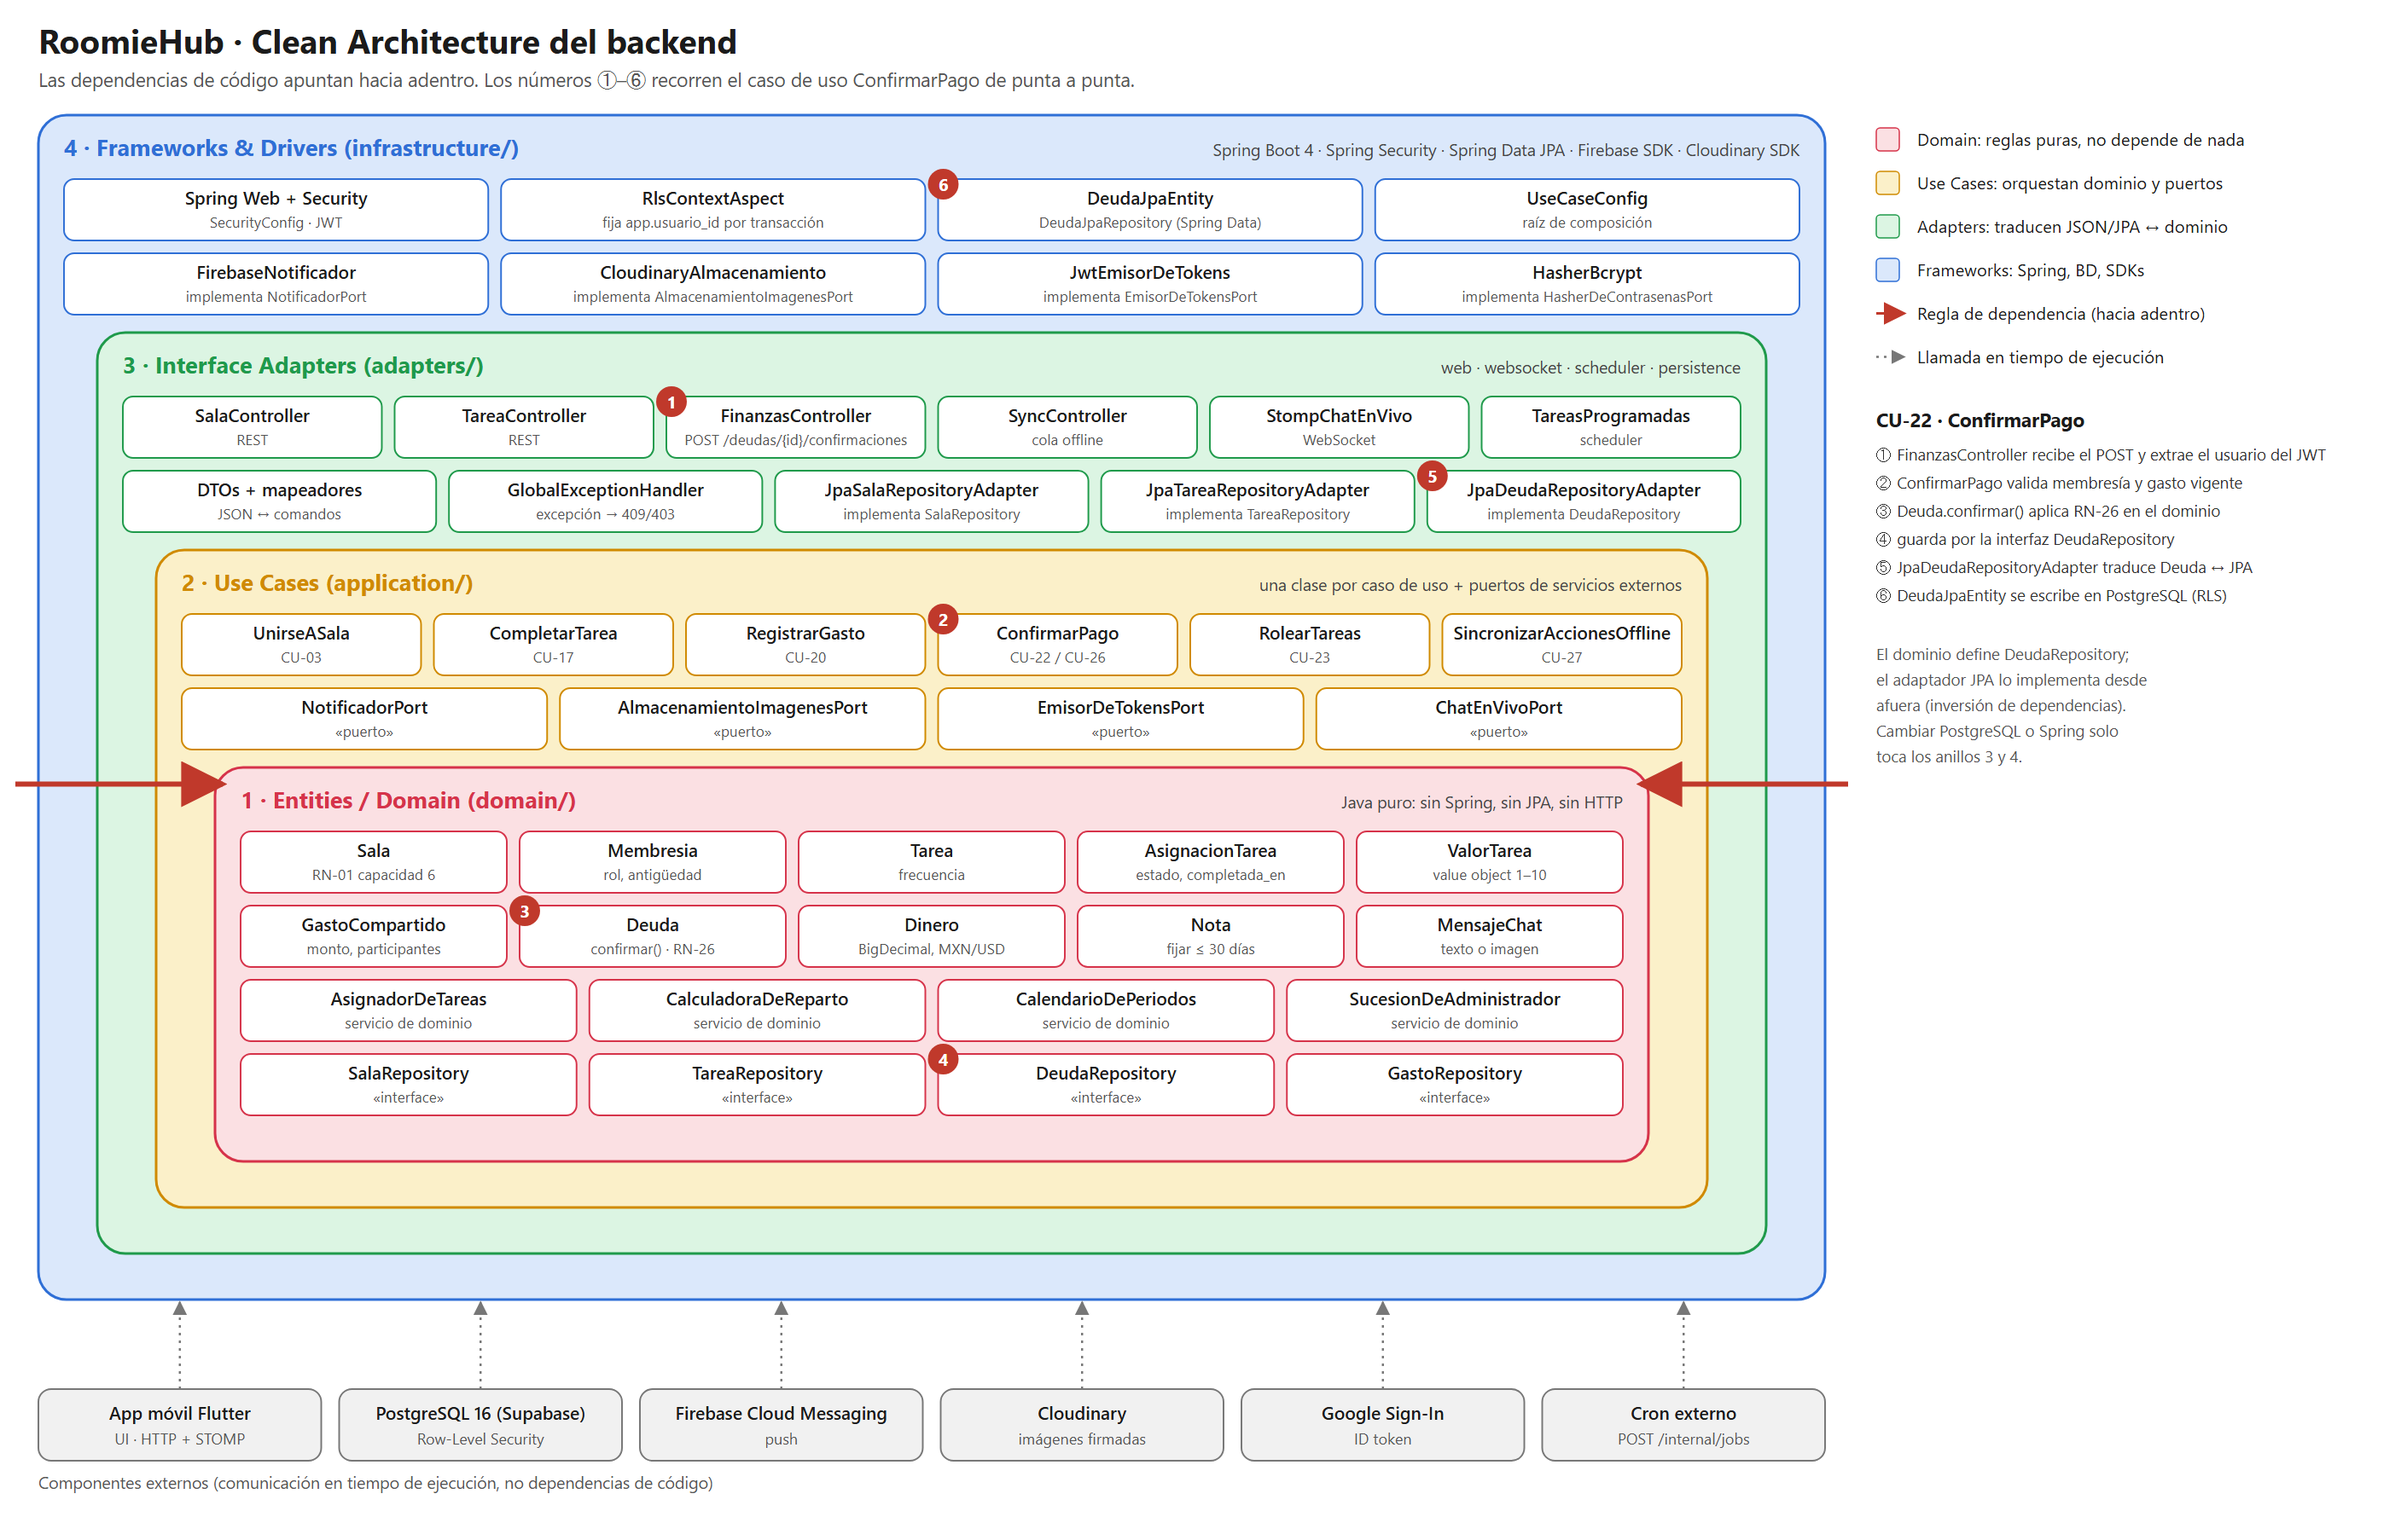
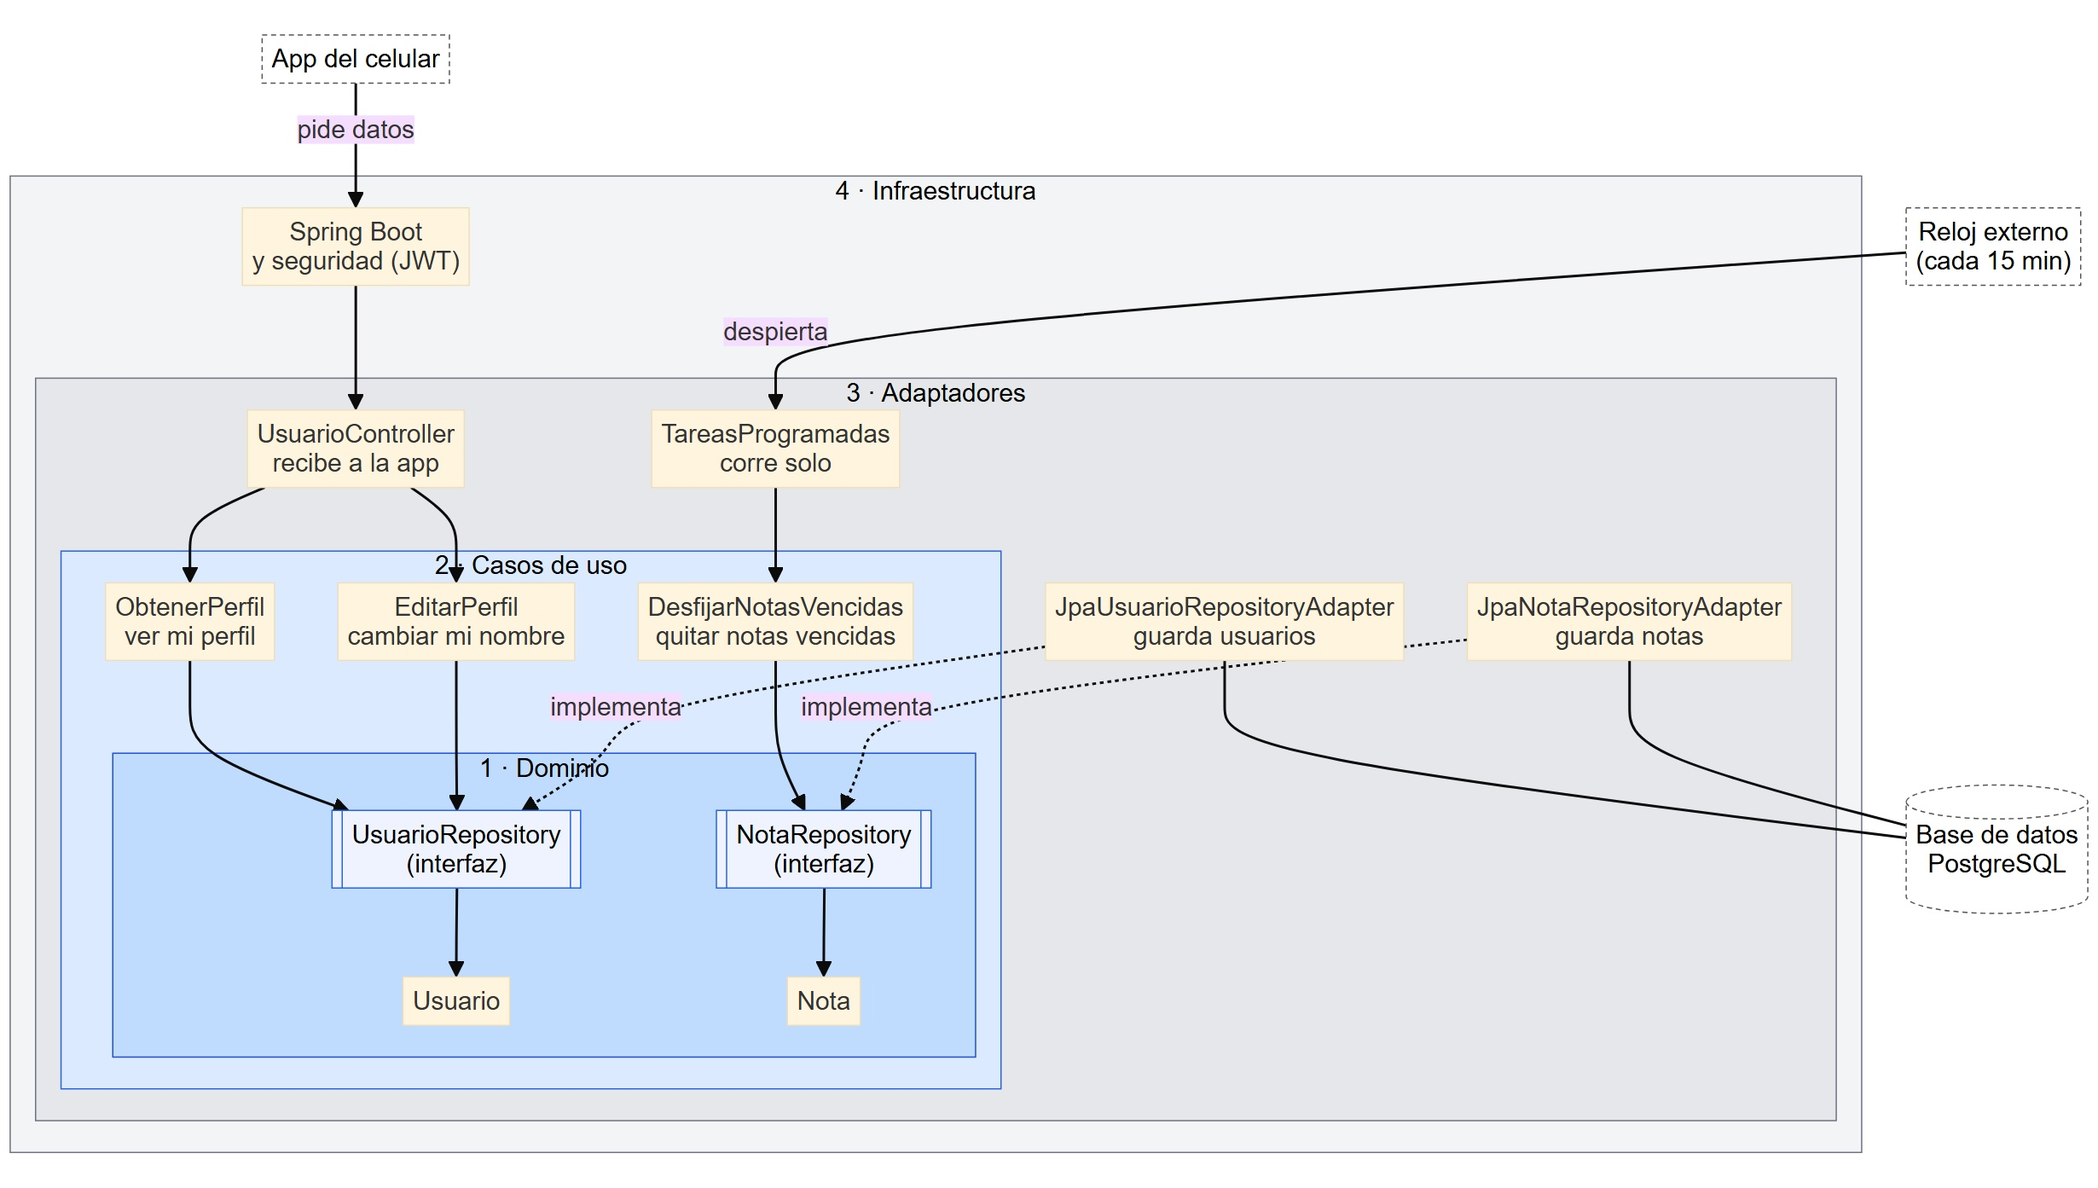
crafteado 4

diff --git a/README.md b/README.md
@@ -51,6 +51,6 @@ Producción: <https://roomiehub-backend-mvg4.onrender.com> (plan gratuito: la pr
 
 ## Documentación
 
-- Diagrama: [`docs/arquitectura.png`](docs/arquitectura.png) ([SVG](docs/arquitectura.svg))
+- Diagrama: [`docs/arquitectura.png`](docs/arquitectura.png)
 - ADRs: [`docs/adr/`](docs/adr/)
 - Video: PENDIENTE
